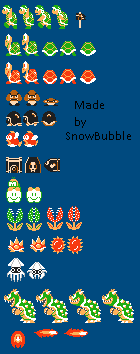
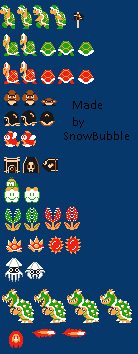
checkpoint: will attempt to refactor mobile for columns sprite sheet actions

diff --git a/modules/enemy.py b/modules/enemy.py
@@ -5,8 +5,13 @@ from pygame.event import Event
 
 
 class Enemy(Mobile):
-   def __init__(self, enemyName, position):
-      super().__init__(enemyName, position)
+
+   _ENEMY_ROWS = { "gTurtle": 2,
+                  "rTurtle": 3,
+                    "gumba": 4}
+
+   def __init__(self, enemyName, position, enemy):
+      super().__init__(enemyName, position, (0,enemy in Enemy._ENEMY_ROWS))
       
       self._jumpTime = 0.1
       self._vSpeed = 50
@@ -17,11 +22,11 @@ class Enemy(Mobile):
       
       #self._image = FrameManager.getInstance().getFrame(self._imageName, offset)
       
-      self._enemyTypeRow = {
-          "turtle": 1,
-          "redTurtle": 2,
-          "mushroom": 3
-      }
+    #   self._enemyTypeRow = {
+    #       "turtle": 1,
+    #       "redTurtle": 2,
+    #       "mushroom": 3
+    #   }
 
       self._nFramesList = {
          "walking": 2,
@@ -31,7 +36,7 @@ class Enemy(Mobile):
          "dying": 1
       }
 
-      self._rowList = {
+      self._List = {
          "walking": 0,
          "falling": 2,
          "standing": 1,
@@ -63,9 +68,6 @@ class Enemy(Mobile):
       self._state.manageState("ground", self)
       self._position.y -= yClip
    
-   #def kill (self):
-    #   self._state.manageState("kill", self)
-
 
   
 class EnemyState(object):

diff --git a/modules/mobile.py b/modules/mobile.py
@@ -5,8 +5,8 @@ from .frameManager import FrameManager
 
 
 class Mobile(Animated):
-    def __init__(self, imageName, position):
-        super().__init__(imageName, position)
+    def __init__(self, imageName, position, offset = None):
+        super().__init__(imageName, position, offset)
         self._velocity = Vector2(0, 0)
         self._jumpTimer = 0
         self._jSpeed = 0
@@ -47,7 +47,7 @@ class Mobile(Animated):
 
         self._nFrames = self._nFramesList[state]
         self._frame = 0
-        self._row = self._rowList[state]
+        self._row = self._rowList[state]    #has to be refactored possibly use columns instead of rows and just keep those
         self._framesPerSecond = self._framesPerSecondList[state]
         self._animationTimer = 0
         self.setImage(FrameManager.getInstance().getFrame(

diff --git a/modules/frameManager.py b/modules/frameManager.py
@@ -37,7 +37,7 @@ class FrameManager(object):
             "mario.png": (16,17),
             "brick.png": (16,16),
             "background.png": (2624,240),
-            "enemy.png": (10,10)
+            "enemies.png": (30,30)
         }
 
         # A default frame size
@@ -47,7 +47,7 @@ class FrameManager(object):
         _TRANSPARENCY = []
 
         # A list of images that require to be loaded with a color key
-        _COLOR_KEY = [ "enemy.png", "mario.png"]
+        _COLOR_KEY = [ "enemies.png", "mario.png"]
         
         #@classmethod
         #def setFrameSize(cls, spriteSheetName: str, newSize: tuple):

diff --git a/main.py b/main.py
@@ -34,7 +34,7 @@ def main():
 
 
     mario = Player("mario.png", (35,200)) # position set to castle door
-    enemies: list [Enemy] = [Enemy("enemies.png", list(SCREEN_SIZE//2))]
+    enemies: list [Enemy] = [Enemy("enemies.png", list(WORLD_SIZE//x), "gumba") for x in range (2,16,2)]
 
     # Make a game clock for nice, smooth animations
     gameClock = pygame.time.Clock()

diff --git a/modules/animated.py b/modules/animated.py
@@ -4,8 +4,8 @@ from .drawable import Drawable
 
 class Animated(Drawable):
 
-    def __init__(self, imageName, location):
-        super().__init__(imageName, location, (0, 0))
+    def __init__(self, imageName, location, offset = None):
+        super().__init__(imageName, location, offset)
 
         self._frame = 0
         self._row = 0

diff --git a/modules/player.py b/modules/player.py
@@ -7,7 +7,7 @@ from pygame.event import Event
 
 class Player(Mobile):
    def __init__(self, imageName, position):
-      super().__init__(imageName, position)
+      super().__init__(imageName, position, (0,0))
 
       self._jumpTime = 0.05
       self._vSpeed = 50
